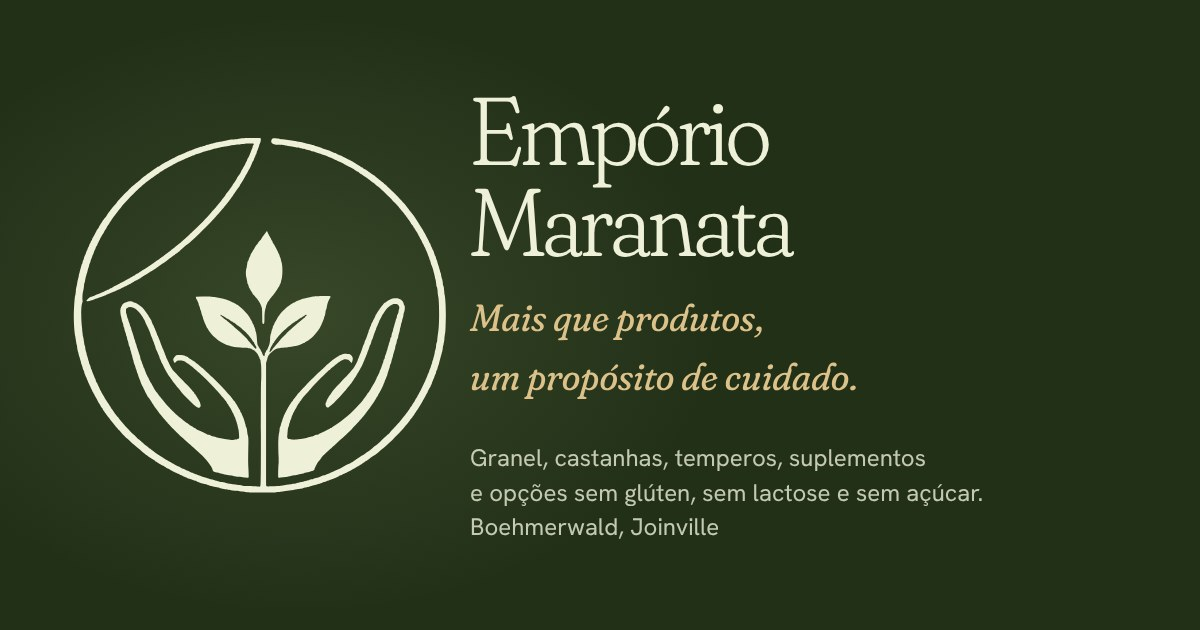
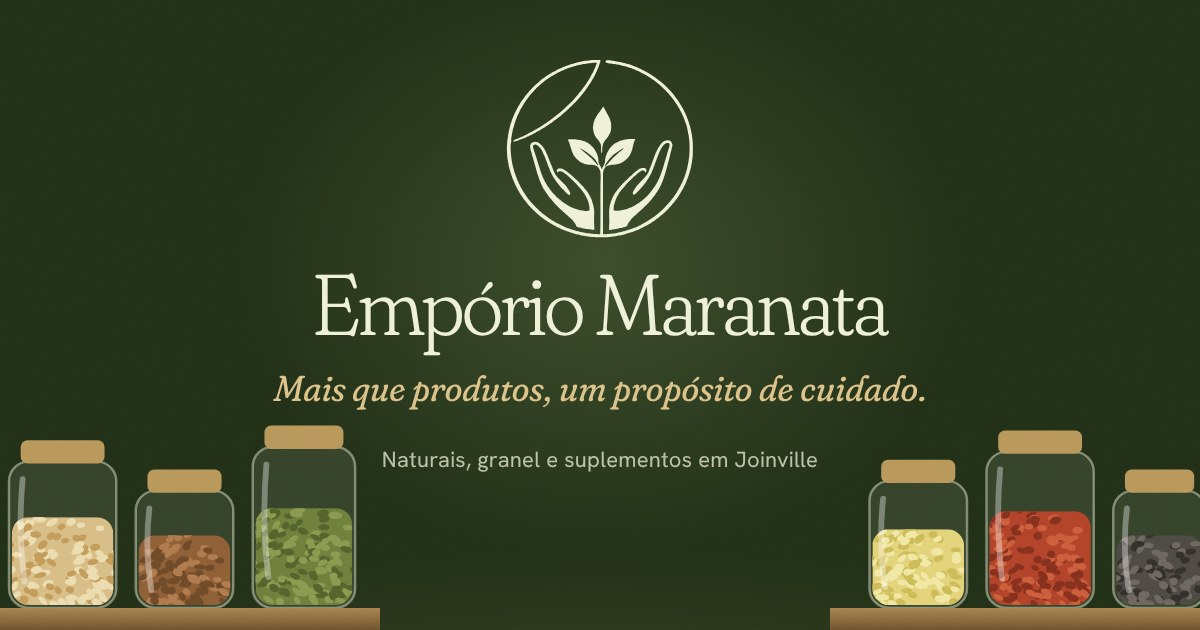
Nova imagem de prévia de link e URLs apontando para o domínio no ar
- banner 1200x630 com a logo centralizada e prateleiras de potes nas laterais
- og:image/canonical/schema/sitemap usavam emporiomaranata.com.br, que ainda não
  existe; por isso o WhatsApp não mostrava a imagem. Agora apontam para
  emporiomaranata.vercel.app (README explica a troca quando o domínio entrar)
- og:image:type, alt, secure_url e twitter:image; ?v=2 para furar o cache

diff --git a/index.html b/index.html
@@ -5,18 +5,22 @@
   <meta name="viewport" content="width=device-width, initial-scale=1, viewport-fit=cover">
   <title>Empório Maranata · Produtos naturais, granel e suplementos em Joinville</title>
   <meta name="description" content="Loja de produtos naturais no Boehmerwald, em Joinville: granel, castanhas, temperos, suplementos e opções sem glúten, sem lactose e sem açúcar. Monte sua lista e peça pelo WhatsApp.">
-  <link rel="canonical" href="https://emporiomaranata.com.br/">
+  <link rel="canonical" href="https://emporiomaranata.vercel.app/">
   <meta name="theme-color" content="#223018">
   <meta property="og:type" content="website">
   <meta property="og:locale" content="pt_BR">
   <meta property="og:site_name" content="Empório Maranata">
   <meta property="og:title" content="Empório Maranata · Mais que produtos, um propósito de cuidado.">
   <meta property="og:description" content="Granel, castanhas, temperos, suplementos e opções sem glúten, sem lactose e sem açúcar no Boehmerwald, em Joinville.">
-  <meta property="og:url" content="https://emporiomaranata.com.br/">
-  <meta property="og:image" content="https://emporiomaranata.com.br/assets/img/og.jpg">
+  <meta property="og:url" content="https://emporiomaranata.vercel.app/">
+  <meta property="og:image" content="https://emporiomaranata.vercel.app/assets/img/og.jpg?v=2">
+  <meta property="og:image:secure_url" content="https://emporiomaranata.vercel.app/assets/img/og.jpg?v=2">
+  <meta property="og:image:type" content="image/jpeg">
+  <meta property="og:image:alt" content="Logo do Empório Maranata com potes de granel numa prateleira">
   <meta property="og:image:width" content="1200">
   <meta property="og:image:height" content="630">
   <meta name="twitter:card" content="summary_large_image">
+  <meta name="twitter:image" content="https://emporiomaranata.vercel.app/assets/img/og.jpg?v=2">
   <link rel="icon" href="/assets/img/favicon.svg" type="image/svg+xml">
   <link rel="icon" href="/favicon.ico" sizes="32x32">
   <link rel="apple-touch-icon" href="/assets/img/apple-touch-icon.png">
@@ -31,9 +35,9 @@
     "name": "Empório Maranata",
     "description": "Loja de produtos naturais, granel, castanhas, temperos, suplementos e opções sem glúten, sem lactose e sem açúcar.",
     "slogan": "Mais que produtos, um propósito de cuidado.",
-    "url": "https://emporiomaranata.com.br/",
-    "image": "https://emporiomaranata.com.br/assets/img/og.jpg",
-    "logo": "https://emporiomaranata.com.br/assets/img/icon-512.png",
+    "url": "https://emporiomaranata.vercel.app/",
+    "image": "https://emporiomaranata.vercel.app/assets/img/og.jpg",
+    "logo": "https://emporiomaranata.vercel.app/assets/img/icon-512.png",
     "telephone": "+55-47-99612-6163",
     "address": {
       "@type": "PostalAddress",

diff --git a/README.md b/README.md
@@ -78,7 +78,10 @@ npx vercel dev                   # site + função do Instagram
 ## Publicação
 
 - **Hospedagem:** Vercel (plano gratuito), ligada a este repositório. Todo push na `main` publica.
-- **Domínio:** `emporiomaranata.com.br` (a registrar no Registro.br). Depois de registrar, adicione o domínio em Vercel → Project → Domains e aponte o DNS como a Vercel indicar. Os metadados do site já usam esse domínio.
+- **Domínio:** `emporiomaranata.com.br` (a registrar no Registro.br). Depois de registrar, adicione o domínio em Vercel → Project → Domains e aponte o DNS como a Vercel indicar. Depois troque `https://emporiomaranata.vercel.app` por `https://emporiomaranata.com.br` em `index.html`, `robots.txt` e `sitemap.xml` (canonical, imagem de compartilhamento e dados estruturados).
+
+## Prévia de link (WhatsApp, Instagram, Facebook)
+A imagem é `assets/img/og.jpg` (1200×630). Se trocar a imagem, mude o `?v=2` nas tags `og:image` de `index.html` para `?v=3`: o WhatsApp guarda a prévia antiga em cache.
 
 ## Depois do lançamento
 
